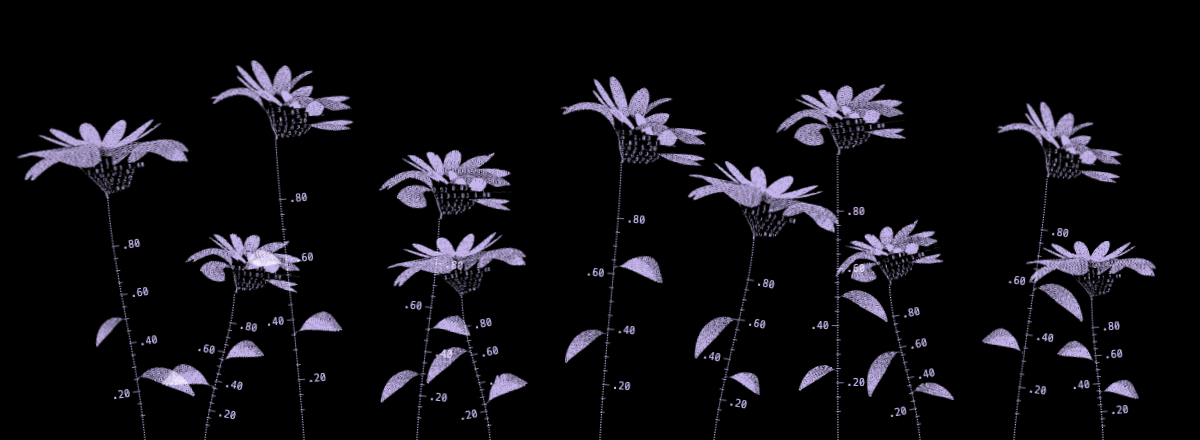
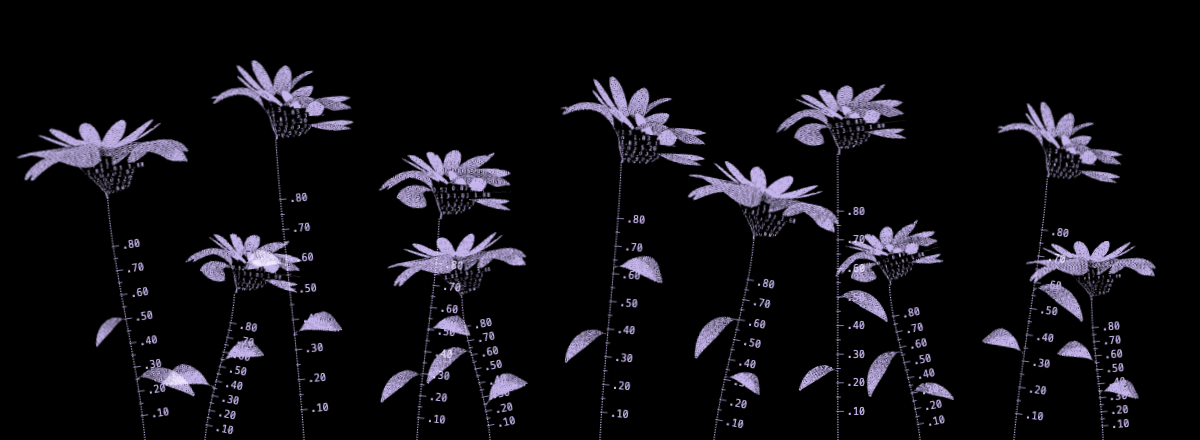
Credit review method and add consistent denser stem rulers

diff --git a/field.js b/field.js
@@ -59,12 +59,11 @@
     // Ruler labels describe normalized height along each individual stem.
     const ruler=el('g',{'data-stem-ruler':''},plant),marks=[];
     for(let j=2;j<=16;j++){
-      const height=j/20,major=j%4===0;
+      const height=j/20,major=j%2===0;
       let position=height;
       for(let k=0;k<5;k++){const u=1-position,y=3*u*u*position*.34+3*u*position*position*.72+position**3,dy=1.02*u*u+2.28*u*position+.84*position*position;position-=(y-height)/dy}
       const h=position,bend=3*(1-h)*(1-h)*h*(-lean*.55)+3*(1-h)*h*h*(lean*.7);
-      const nearby=leafGroups.find(leaf=>Math.abs(leaf.height-height)<.1);
-      const side=nearby?nearby.direction:1;
+      const side=1;
       const mark=el('g',{transform:`translate(${bend} ${-length*height})`},ruler);
       const tick=el('path',{fill:'none',stroke:'#C5B5EC','stroke-width':.7},mark);
       const label=major?el('text',{fill:'#C5B5EC','font-family':'Menlo,Consolas,monospace','text-anchor':side<0?'end':'start','dominant-baseline':'central'},mark):null;

diff --git a/.agents/skills/verify-flower-field/SKILL.md b/.agents/skills/verify-flower-field/SKILL.md
@@ -9,7 +9,7 @@ From the repository root, install test dependencies with `npm install` and insta
 
 The website itself requires no npm packages or build step. Open `index.html` or serve this directory with a static HTTP server.
 
-The helper creates an isolated Chromium browser and a loopback server restricted to public project files. It checks image loading, 11 desktop / 6 mobile plants, two leaves per plant, 4 numeric labels per stem, minor ticks, computed label sizes, page overflow, and stem alignment with the page bottom at 1280/390/320px. It records a full principal sway cycle plus continuation, checks static reduced motion, and proves the ruler guard rejects missing labels and the historical tiny-font collision in isolated page fixtures. It closes its own browser and server in `finally` and retains screenshots, motion frames and results.
+The helper creates an isolated Chromium browser and a loopback server restricted to public project files. It checks image loading, 11 desktop / 6 mobile plants, two leaves per plant, 8 numeric labels per stem on the right side, minor ticks, computed label sizes, page overflow, and stem alignment with the page bottom at 1280/390/320px. It records a full principal sway cycle plus continuation, checks static reduced motion, and proves the ruler guard rejects missing labels and the historical tiny-font collision in isolated page fixtures. It closes its own browser and server in `finally` and retains screenshots, motion frames and results.
 
 Inspect screenshots at actual scale and all distinct blooms and leaves enlarged. Use [critique-flower-field](../critique-flower-field/SKILL.md) for appearance and completeness: passing assertions do not establish aesthetic acceptance. Hidden-tab and offscreen pause handlers remain in the renderer, but this helper does not claim a real hidden-tab visibility test.
 

diff --git a/README.md b/README.md
@@ -11,3 +11,5 @@ A lavender dotwork flower field with gently swaying blooms, varied leaves, and n
 ## Agent skills
 
 Built with Codex using `frontend-design`; refined with [critique-flower-field](.agents/skills/critique-flower-field/SKILL.md) and verified with [verify-flower-field](.agents/skills/verify-flower-field/SKILL.md), adapted from the personal website’s critique and verification skills.
+
+The verification method began with Cursor’s [create-verification-skill](https://github.com/cursor/plugins/tree/main/pstack/skills/create-verification-skill) and [maintain-verification-skill](https://github.com/cursor/plugins/tree/main/pstack/skills/maintain-verification-skill). The critique method developed through iterative reviews of the personal website’s flower artwork, turning feedback about stray petals, awkward angles, missing details, and unreadable rulers into a reference-based render–critique–fix–verify loop.
